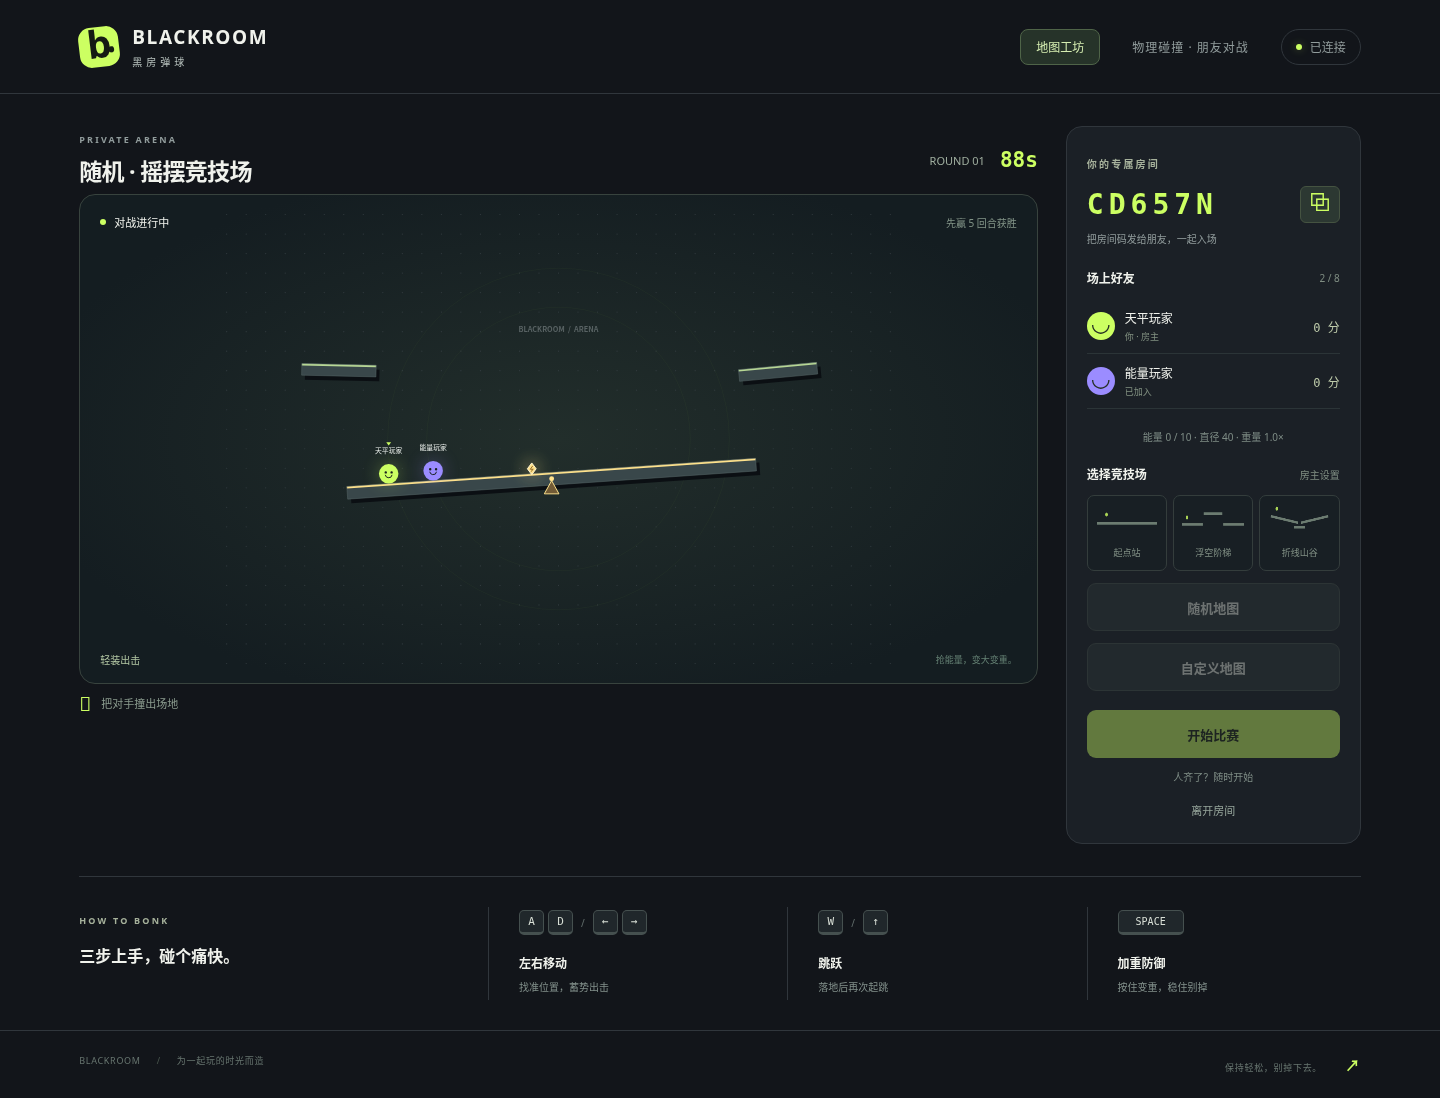
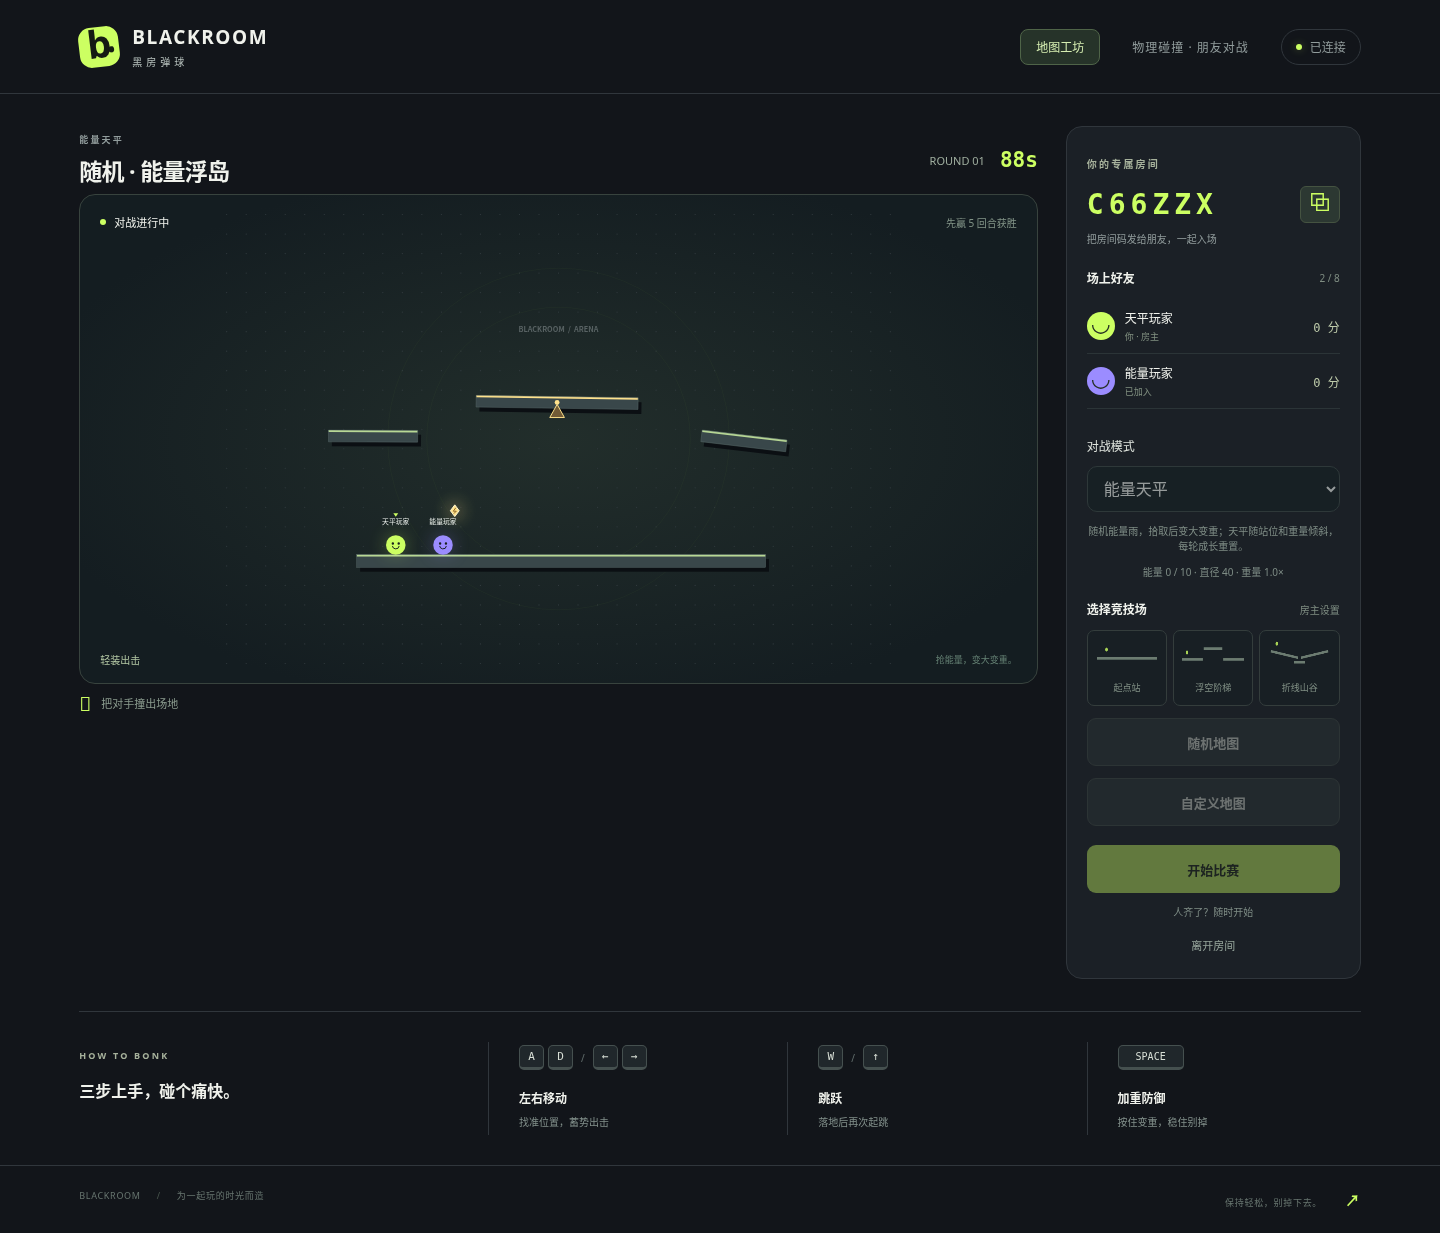
docs: verify classic defaults and optional energy mode

diff --git a/README.md b/README.md
@@ -135,7 +135,7 @@ DOCKER_CONFIG=/workspace/tools/docker-config docker compose \
 
 ## 本次交付验证
 
-最新能量天平版本通过 74 项自动测试、11 项浏览器测试及 Docker 运行验收，见 [能量天平交付验证与实际截图](docs/validation/2026-10-12-energy-arena-readiness.md)。地图工坊初版见 [工坊验收](docs/validation/2026-10-12-map-editor-readiness.md)。初始游戏的环境说明见 [初始交付验证](docs/validation/2026-10-12-readiness.md)。
+最新模式修订通过 79 项自动测试、12 项浏览器测试及 Docker 运行验收，见 [经典与能量模式验收](docs/validation/2026-10-12-game-modes-readiness.md)。此前的 [能量天平验收与实际截图](docs/validation/2026-10-12-energy-arena-readiness.md) 保留为历史记录。地图工坊初版见 [工坊验收](docs/validation/2026-10-12-map-editor-readiness.md)。初始游戏的环境说明见 [初始交付验证](docs/validation/2026-10-12-readiness.md)。
 
 ## 可视化地图工坊
 
@@ -149,21 +149,25 @@ DOCKER_CONFIG=/workspace/tools/docker-config docker compose \
 6. **导出地图**下载 JSON，发给朋友后可在工坊导入。导入创建新副本，不覆盖同名地图。地图库损坏时可备份原始内容再显式重置；存储空间不足时保留编辑草稿并提示导出。
 7. 房主在准备阶段点击 **应用到房间**，收到同步成功提示后返回房间开局。所有成员和后来加入者会收到同一份地图；访客及比赛中不能修改地图。
 
-地图最多 64 个矩形平台，支持旋转形成斜坡；八个出生点不能重叠或嵌入平台。编辑区域固定为 1200 × 800，平台不能超出编辑区域。地图文件最多 32 KiB，只接受 `blackroom-map` 格式版本 1，服务器会再次校验上传地图。联机上传每连接每秒最多一次；其他消息仍限制 4 KiB。
+地图最多 64 个矩形平台，支持旋转形成斜坡；八个出生点不能重叠或嵌入平台。编辑区域固定为 1200 × 800，平台不能超出编辑区域。地图文件最多 32 KiB，接受 `blackroom-map` 格式版本 1 和 2，服务器会再次校验上传地图。联机上传每连接每秒最多一次；其他消息仍限制 4 KiB。
 
 地图保存在**当前浏览器和网站地址**下，不跨设备同步；换域名、换端口、使用隐私窗口或清除浏览器数据都会影响可用地图。请导出 JSON 保留备份。断线时已打开的工坊仍可保存、导出本地作品；房间里的地图随房间销毁或服务器重启清空。
 
 多窗口保存、删除和重置会串行执行；同一地图的旧版本保存会提示冲突，可另存为保留作品。浏览器需允许 localStorage 和 IndexedDB（用于跨窗口协调），支持 HTTP 局域网访问。
 
-## 能量雨、天平与随机地图
+## 对战模式、能量雨与随机地图
 
-房主在准备页点击 **随机地图**：全房间获得同一张新场地，后来加入的朋友也会看到同图。工坊中 **随机生成** 可生成草稿继续编辑；各轮保留当前地图，准备阶段可重新生成。
+新房间默认 **经典弹球**：保留原来的固定体型、静止地面、移动、跳跃、空格加重和五回合制胜。新增玩法作为 **能量天平** 模式保留，由房主在准备页的 **对战模式** 中选择；访客仅查看，比赛开始后不可切换。模式同步给全体玩家和后来加入者。
 
-比赛开始 1 秒后，上方开始随机掉落金色能量，每 3 秒一个。接触即可拾取，圆球每次增加 2 单位半径，并按面积增加实际质量；最多十层，从半径 20 长到 40。空格加重叠加在成长重量上，每轮重新开始时重置。对战侧栏显示能量、直径和重量倍数；能量落在平台上可停留，15 秒后消失。
+自定义地图与模式独立：经典模式中天平平台按固定平台运行，保存的天平属性不会丢失；切换能量模式后启用。更换地图不会自动更换模式。
+
+房主在准备页点击 **随机地图**：按当前模式生成固定地面或带天平的场地，全房间获得同一张新场地，后来加入的朋友也会看到同图。工坊中 **随机生成** 可生成草稿继续编辑；各轮保留当前地图，准备阶段可重新生成。
+
+在 **能量天平** 模式中，比赛开始 1 秒后，上方开始随机掉落金色能量，每 3 秒一个。接触即可拾取，圆球每次增加 2 单位半径，并按面积增加实际质量；最多十层，从半径 20 长到 40。空格加重叠加在成长重量上，每轮重新开始时重置。对战侧栏显示能量、直径和重量倍数；能量落在平台上可停留，15 秒后消失。
 
 平台支持 **固定地面** 和 **天平 · 中心支点**。天平带金色边线和三角支点，会随玩家站位和实际重量倾斜；站得离中心更远、吃更多能量或按住空格，都会影响左右受力。天平运行转角限制在 ±45°，中心支点不移动。
 
-在工坊选中平台，拖动上方圆形手柄直接旋转；开吸附时按 5° 步进。右侧有角度输入、可视化滑杆，以及 **顺时针 15° / 逆时针 15°** 按钮。正角度顺时针，负角度逆时针；固定平台支持 ±180°，天平初始角度支持 ±45°。天平的完整转动范围需留在编辑区域内，右侧校验会提示越界。试跑同样包含能量、成长和天平物理。
+在工坊选中平台，拖动上方圆形手柄直接旋转；开吸附时按 5° 步进。右侧有角度输入、可视化滑杆，以及 **顺时针 15° / 逆时针 15°** 按钮。正角度顺时针，负角度逆时针；固定平台支持 ±180°，天平初始角度支持 ±45°。天平的完整转动范围需留在编辑区域内，右侧校验会提示越界。工坊有独立的 **试跑模式**，默认当前房间模式（首页默认经典）。选择能量天平后试跑包含能量、成长和天平物理；试跑选择不会改变房间模式，随机草稿也按试跑模式生成。
 
 新地图格式为 `blackroom-map` 版本 2；旧版本 1 的固定平台地图仍可导入，本地旧作品保留。跨窗口事务保存最新地图库版本，避免浏览器缓存导致同时保存互相覆盖。
 

diff --git a/docs/validation/2026-10-12-game-modes-readiness.md b/docs/validation/2026-10-12-game-modes-readiness.md
@@ -1,0 +1,32 @@
+# 经典与能量模式修订验收
+
+日期：2026-10-12。用户修订要求：新增玩法保留为可选模式，恢复原来的玩法作为默认。
+
+## 最终行为
+
+新房间默认 **经典弹球**：固定体型、静止地面、原有移动/跳跃/空格加重和五回合制胜；不生成能量。房主在准备阶段可以选择 **能量天平**，开启能量雨、成长和动态天平。访客仅查看，模式同步给后来加入者；开始比赛后锁定，换地图不切换模式，房主离开或返回准备页保留已选模式，新房间独立默认经典。
+
+地图数据独立于模式。经典模式将天平按静止平台处理，不删除原始 motion 字段；切换回能量模式后恢复天平物理。随机地图按当前模式生成固定或动态平台，工坊保留旋转手柄、角度控件和平台类型编辑。工坊有独立试跑模式，默认房间模式或首页经典；试跑选择不会隐式改变房间模式。
+
+## 已通过检查
+
+- `npm run typecheck`：通过。
+- `npm test`：15 个测试文件，79 项通过。
+- `npm run build`：前端和服务端构建成功。
+- Node 生产浏览器：12 项测试通过。
+- Docker：镜像构建成功，Compose 服务 healthy；健康/静态资源/双人 WebSocket 冒烟和同样 12 项浏览器验收通过。
+- `git diff --check`：通过。
+
+最终 Docker 镜像：`sha256:cb54f9035315651e1ea9c9614d31a93ed89d1f5b1f7805f5167e1da55587da19`。Node 验收端口 3094，更新后的 Docker 验收端口 3093，仅为本机测试地址。
+
+新回归先在旧版本失败，再验证默认无能量和成长、静止天平且保留地图属性、模式消息格式与权限、后加入同步、开局锁定和房主转移。浏览器实际运行经典模式超过 2.5 秒，确认零能量/零动态平台/固定半径；并验证显式能量模式、独立试跑和原有对战计分流程。经典地面配置恢复原来的摩擦参数 .15，Matter.js 静态刚体运行时摩擦为 1，与原始版本一致。
+
+## 实际截图
+
+![默认经典弹球](../screenshots/classic-arena.png)
+
+![可选能量天平](../screenshots/energy-arena.png)
+
+## 独立审查
+
+独立审查未发现 Critical、Important 或 Minor 问题。另执行 20 项针对性测试及生命周期验证，确认进行中的房主转移、能量模式重赛、准备页切回经典、新房间默认值和自定义地图属性保留。未改动文件。

diff --git a/docs/superpowers/plans/2026-10-12-game-modes.md b/docs/superpowers/plans/2026-10-12-game-modes.md
@@ -4,7 +4,7 @@
 
 设计：房间 mode 为 classic/energy，默认 classic。classic 不生成能量、体型固定、所有平台按静态处理，恢复原固定地面的摩擦参数。energy 显式开启能量雨、成长与天平。地图数据与模式分开，切换不会删除自定义天平属性；原三张地图、计分、空格加重和旋转编辑保留。随机生成按当前模式选择固定或动态平台。房主仅在 lobby 切换，广播给成员和后加入者，比赛期间锁定；新房间独立默认 classic。试跑模式独立可选，默认当前房间或首页 classic，不隐式改变房间模式。
 
-- [ ] 回归先失败：默认无能量/静态地面/原摩擦；模式协议、权限、同步和中途锁定；旧地图不被改写。
-- [ ] 实现共享模式规则、PhysicsWorld/Match 参数、Room.mode/selectMode、按模式随机生成。
-- [ ] 房间模式和工坊试跑控件，经典隐藏成长/天平表现，浏览器验证默认经典和选择后的能量模式。
-- [ ] 全套类型/测试/构建、独立审查、Docker验收，更新文档并提交推送。
+- [x] 回归先失败：默认无能量/静态地面/原摩擦；模式协议、权限、同步和中途锁定；旧地图不被改写。
+- [x] 实现共享模式规则、PhysicsWorld/Match 参数、Room.mode/selectMode、按模式随机生成。
+- [x] 房间模式和工坊试跑控件，经典隐藏成长/天平表现，浏览器验证默认经典和选择后的能量模式。
+- [x] 全套类型/测试/构建、独立审查、Docker验收，更新文档并提交推送。
